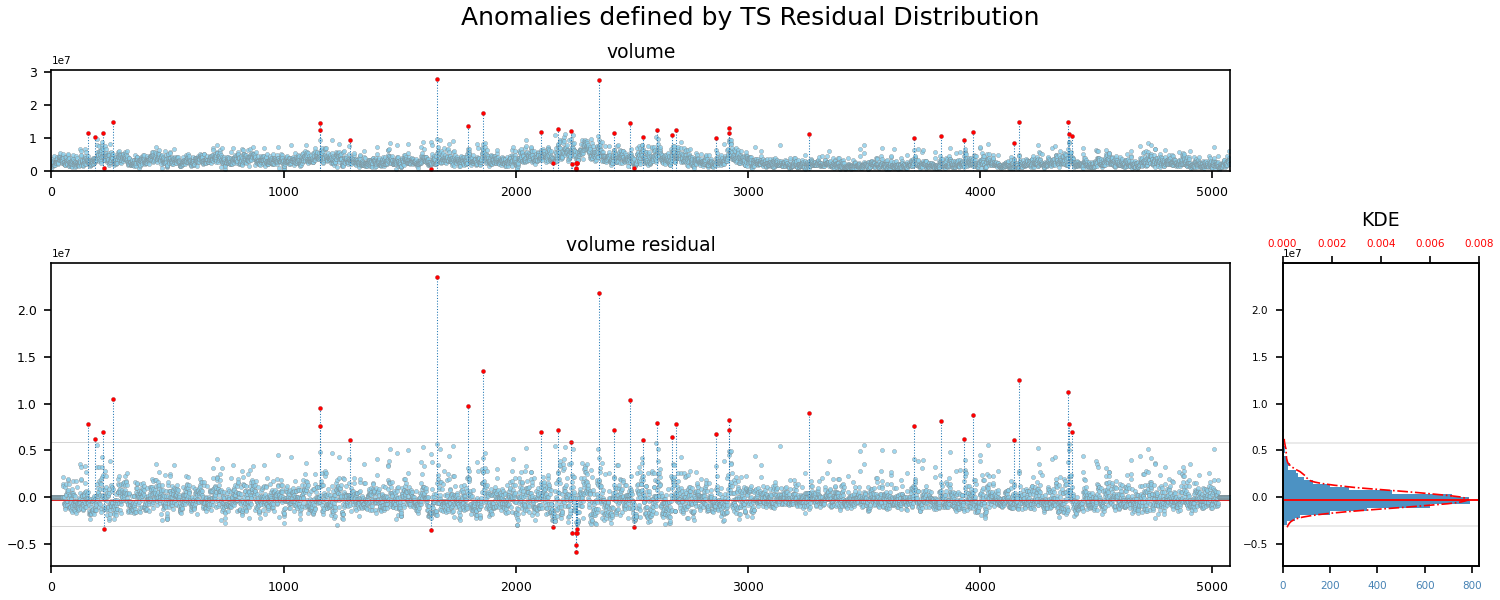
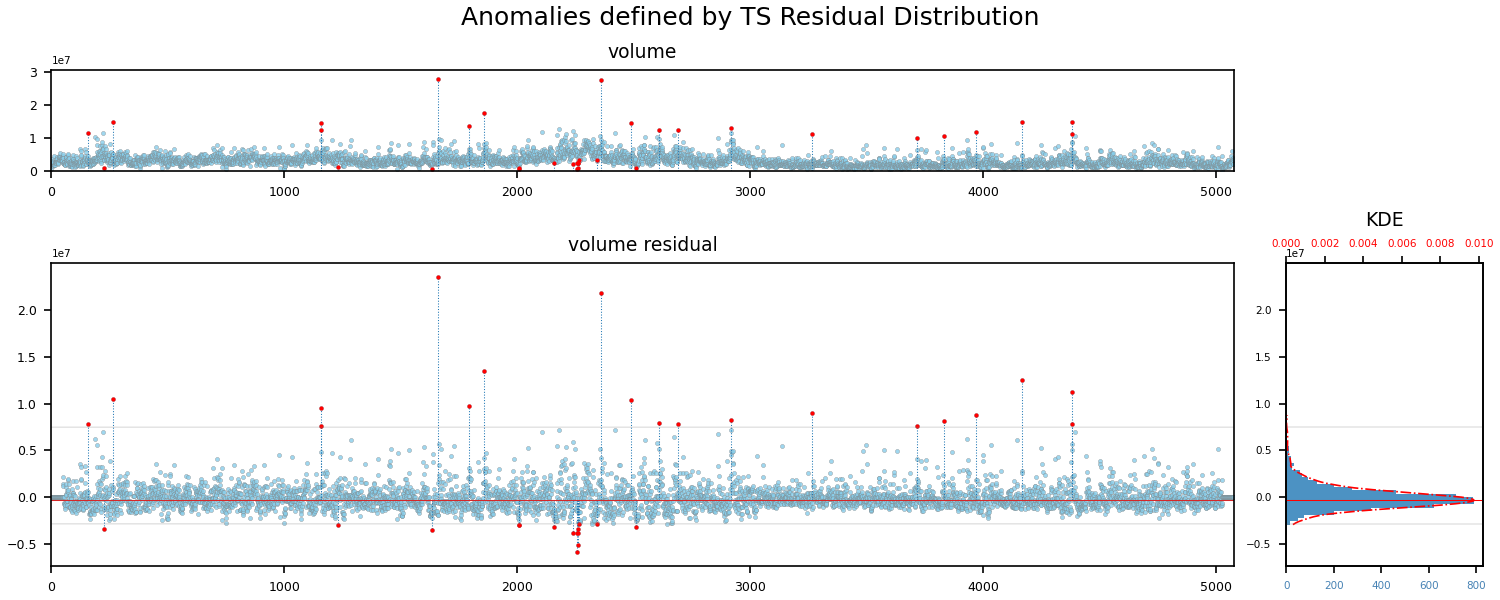
.

diff --git a/Machine Learning Programming/Programming - Week2 exercise/TimeSeries/analysis_time_series.py b/Machine Learning Programming/Programming - Week2 exercise/TimeSeries/analysis_time_series.py
@@ -1,4 +1,6 @@
 # coding=utf-8
+from unicodedata import decimal
+
 import pandas as pd
 import numpy as np
 import math
@@ -165,32 +167,32 @@ class TimeSerious:
     def get_tick_labels(self, x_max, cnt):
         arr = np.linspace(0, x_max, num=cnt, endpoint=True)
         steps = float("%.0e" % arr[1])
-        return np.arange(0, x_max + steps, steps)
+        labels = np.arange(0, x_max + steps, steps)
+        return [str(round(float(label), 3)) for label in labels if label != '']
 
     def plot_KDE(self, ax1, dist, l, m, r, x, x_test, y):
-        # histogram of residuals
         # ax1.title.set_text('KDE')
         ax1.set_title('KDE', fontdict={'fontsize': 9})
         ax1.hist(y, 80, histtype='stepfilled', orientation='horizontal', alpha=0.8)
         # [label.set_fontsize(7) for label in (ax1.get_xticklabels() + ax1.get_yticklabels())]
         [tick.set_color('steelblue') for tick in ax1.xaxis.get_ticklabels()]
+        # ax1.xaxis.set_major_formatter(mticker.FormatStrFormatter('%.0f°E'))
+        ax1.xaxis.set_major_formatter(FormatStrFormatter('%.0f'))
         # KDE
         ax2 = ax1.twiny()
         ax2.plot(dist, x_test, '-.', color='r', linewidth=.8, alpha=1)
         labels = self.get_tick_labels(max(dist), 5)
-        ticks = np.arange(len(labels))
-        ax2.axis(xmin=0, xmax=labels[-1])
-        # ax2.set_xticks(ticks, minor=False)
-        # ax2.set_xticklabels(labels, fontdict=None, minor=False)
+        ax2.axis(xmin=0, xmax=max(dist)*1.05)
+        # ax2.axis(xmin=0, xmax=float(labels[-1]))
+        # ax2.set_xticks(np.arange(len(labels)))
+        # ax2.set_xticklabels(['x'] * len(labels))
 
         [tick.set_color('red') for tick in ax2.xaxis.get_ticklabels()]
         # [label.set_fontsize(7) for label in (ax2.get_xticklabels())]
         # plot threshold in residuals
         ax2.plot(x, [l] * len(x), color='gray', linewidth=.2, alpha=.8)
         ax2.plot(x, [r] * len(x), color='gray', linewidth=.2, alpha=.8)
-        ax2.plot(x, [m] * len(x), color='red', linewidth=.9, alpha=1)
-        # ax1.xaxis.set_major_formatter(mticker.FormatStrFormatter('%.0f°E'))
-        ax1.xaxis.set_major_formatter(FormatStrFormatter('%.0f'))
+        ax2.plot(x, [m] * len(x), color='red', linewidth=.5, alpha=1)
 
     def plot_volume_and_its_anom(self, ax_volume, residual_anomalies, x):
         # ax_volume.title.set_text('volume')
